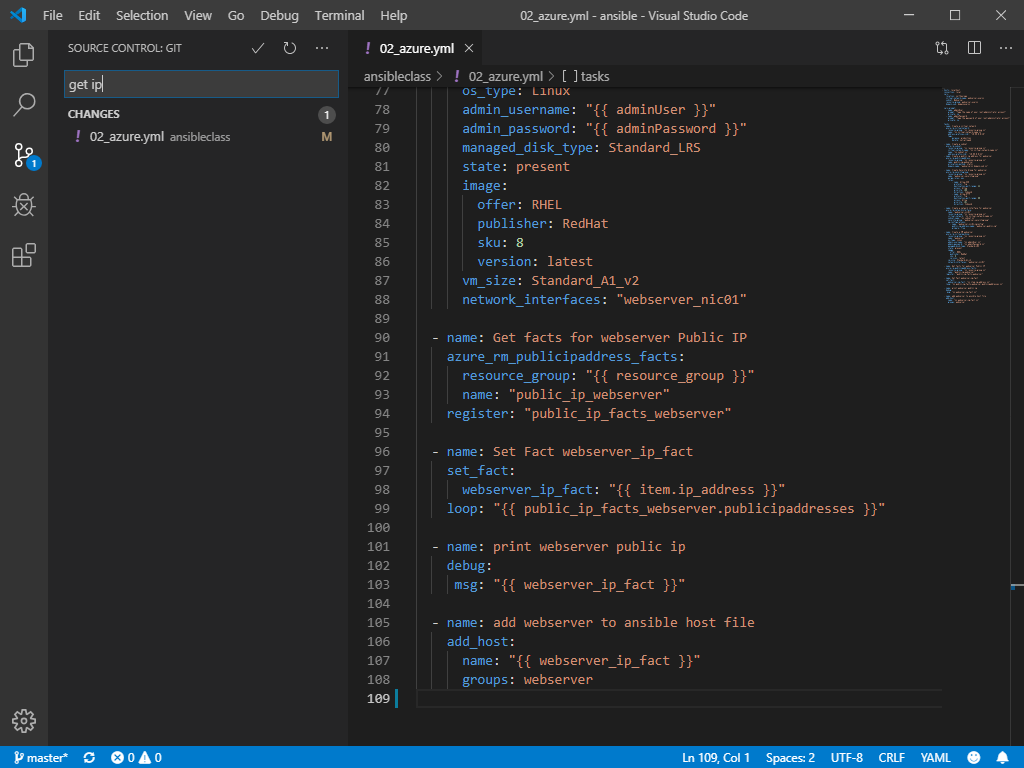
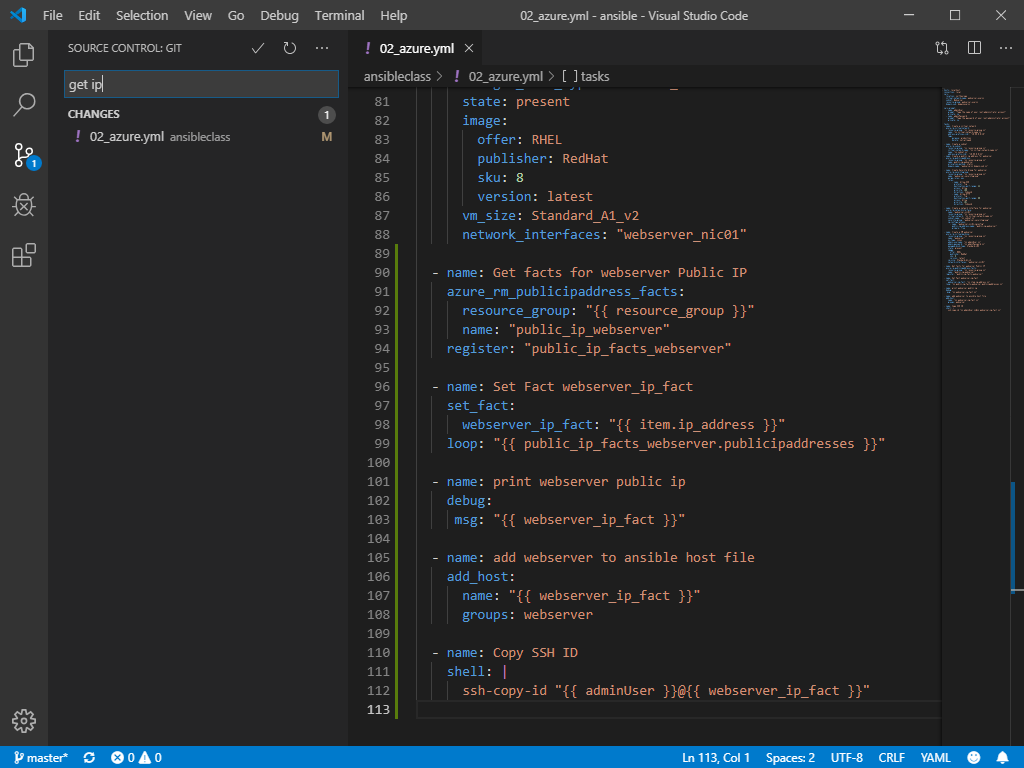
install httpd

diff --git a/lab04/lab4.md b/lab04/lab4.md
@@ -364,7 +364,7 @@ ansible-playbook 02_azure.yml
 
 ## Task 4: Install Apache Webserver and create the site
 
-We need to collect the public ip address for webserver and add it to the in memory hosts file
+We need to collect the public ip address for webserver and add it to the in memory hosts file, and copy the ssh id to the new machine
 
 [Ansible Module azure_rm_publicipaddress_facts](https://docs.ansible.com/ansible/latest/modules/azure_rm_publicipaddress_facts_module.html#azure-rm-publicipaddress-facts-module)
 
@@ -373,6 +373,8 @@ We need to collect the public ip address for webserver and add it to the in memo
 [Ansible Module debug](https://docs.ansible.com/ansible/latest/modules/debug_module.html)
 
 [Ansible Module add_host](https://docs.ansible.com/ansible/latest/modules/add_host_module.html?highlight=add_host)
+
+[Ansible Module shell](https://docs.ansible.com/ansible/latest/modules/shell_module.html?highlight=shell)
 
 In VSCode add the next sections to the 02_azure.yml playbook
 
@@ -396,6 +398,10 @@ In VSCode add the next sections to the 02_azure.yml playbook
     add_host:
       name: "{{ webserver_ip_fact }}"
       groups: webserver
+
+  - name: Copy SSH ID
+    shell: |
+      ssh-copy-id "{{ adminUser }}@{{ webserver_ip_fact }}"
 
 ```
 
@@ -439,7 +445,7 @@ In VSCode add the next sections to the 02_azure.yml playbook
       state: latest
 ```
 
-![Alt text](pics/018_azure_get_ip.png?raw=true "azure get ip playbook")
+![Alt text](pics/020_azure_httpd.png?raw=true "azure install httpd playbook")
 
 Save and commit to Git
 
